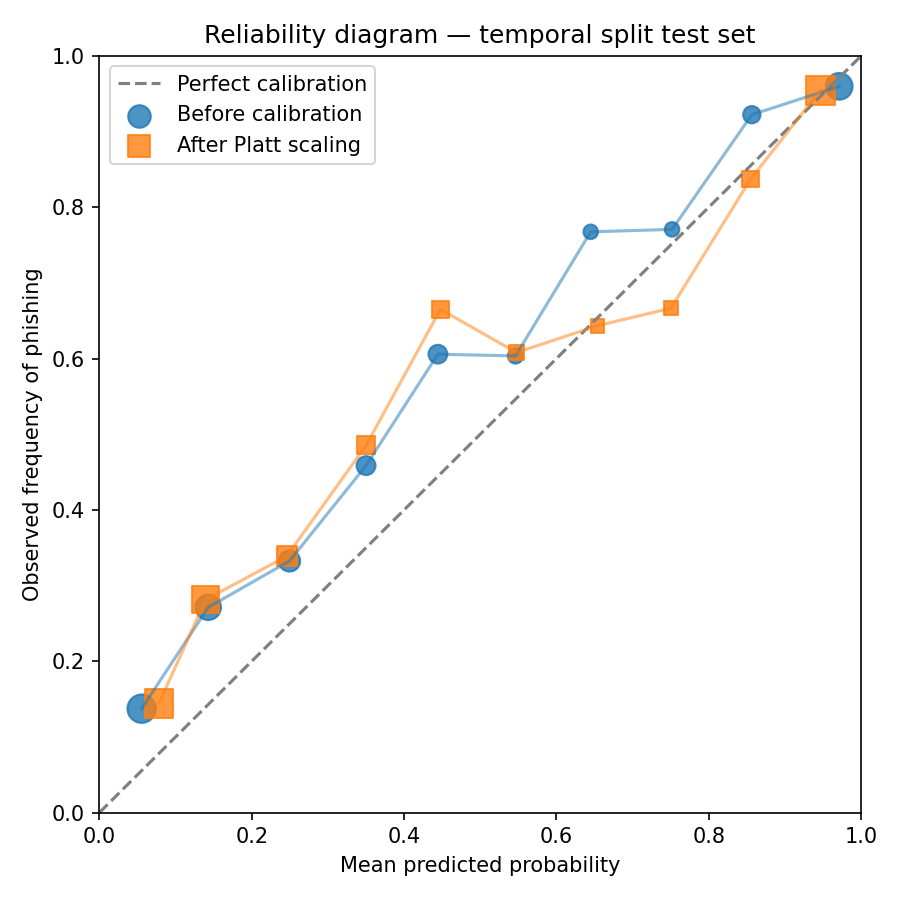
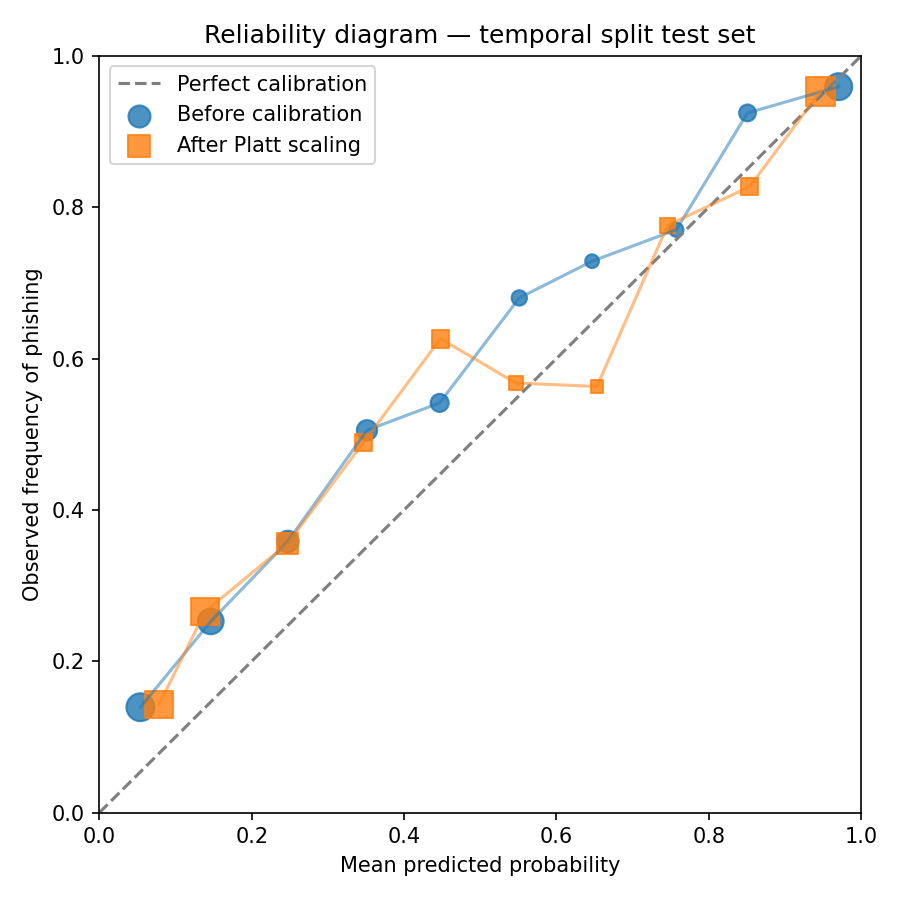
fix(sprint-2): correct two bugs found while re-running the evaluation pipeline after digit_ratio
evaluate_baselines.py still declared its FEATURE_COLS with the retired
num_digits column name, so re-running the baseline comparison after the
digit_ratio rename (commit b944161) failed with a KeyError. Its split
functions also hardcoded RANDOM_STATE internally rather than accepting a
random_state parameter, so cross_validate.py's whole premise (repeat both
protocols under different seeds) silently could not vary anything.

sensitivity.py's report narrative was a hand-written string describing an
earlier run's numbers ("doubling every weight moves 43.9%...") that never
got updated when the script was re-run against a fusion-weight table that
had grown from three signals to nine — leaving a report where the prose
and its own table disagreed. The narrative is now assembled from the same
variables that populate the table, and a coverage caveat is generated
naming any fusion signal the fixed synthetic test profile doesn't
exercise, rather than silently reporting a 0 for it with no explanation.

ml/reports/evaluation_report.md and reliability_diagram.png are the
freshly re-run output: temporal/unseen-domain baselines, calibration,
the false-positive holdout, faithfulness, fusion sensitivity, and a new
repeated-seed cross-validation section, all measured against the current
digit_ratio model rather than carried over from the pre-rename run.

diff --git a/ml/scripts/evaluate_baselines.py b/ml/scripts/evaluate_baselines.py
@@ -58,7 +58,7 @@ FEATURES_PATH = BASE_DIR / "data" / "processed" / "features.csv"
 REPORT_PATH = BASE_DIR / "reports" / "evaluation_report.md"
 
 FEATURE_COLS = [
-    "url_length", "num_digits", "num_special_chars", "subdomain_depth", "has_https",
+    "url_length", "digit_ratio", "num_special_chars", "subdomain_depth", "has_https",
     "url_entropy", "has_ip_address", "suspicious_tld_flag", "brand_impersonation",
 ]
 RANDOM_STATE = 42
@@ -72,7 +72,9 @@ def registrable_domain(url: str) -> str:
 
 # Split the phishing class by submission_time (earlier -> train) and the benign class randomly in
 # matching proportion, since benign rows carry no submission timestamp (see module docstring).
-def temporal_split(df: pd.DataFrame, test_frac: float = 0.2) -> tuple[pd.DataFrame, pd.DataFrame]:
+def temporal_split(
+    df: pd.DataFrame, test_frac: float = 0.2, random_state: int = RANDOM_STATE
+) -> tuple[pd.DataFrame, pd.DataFrame]:
     phishing = df[df["label"] == 1].copy()
     benign = df[df["label"] == 0].copy()
 
@@ -81,7 +83,10 @@ def temporal_split(df: pd.DataFrame, test_frac: float = 0.2) -> tuple[pd.DataFra
     cut = int(len(phishing) * (1 - test_frac))
     phishing_train, phishing_test = phishing.iloc[:cut], phishing.iloc[cut:]
 
-    benign_train = benign.sample(frac=1 - test_frac, random_state=RANDOM_STATE)
+    # The phishing side's chronological cut is fixed by submission_time, not by random_state — a
+    # different seed only re-samples which benign rows (no timestamp to order by) land on each
+    # side, which is exactly the randomisation cross_validate.py's repeated-seed protocol needs.
+    benign_train = benign.sample(frac=1 - test_frac, random_state=random_state)
     benign_test = benign.drop(benign_train.index)
 
     # Benign rows' submission_time is entirely NaT (see module docstring), which triggers a
@@ -89,16 +94,18 @@ def temporal_split(df: pd.DataFrame, test_frac: float = 0.2) -> tuple[pd.DataFra
     # downstream reads submission_time past this point, but silenced so it doesn't clutter CI.
     with warnings.catch_warnings():
         warnings.filterwarnings("ignore", category=FutureWarning, message=".*all-NA.*")
-        train = pd.concat([phishing_train, benign_train]).sample(frac=1, random_state=RANDOM_STATE)
-        test = pd.concat([phishing_test, benign_test]).sample(frac=1, random_state=RANDOM_STATE)
+        train = pd.concat([phishing_train, benign_train]).sample(frac=1, random_state=random_state)
+        test = pd.concat([phishing_test, benign_test]).sample(frac=1, random_state=random_state)
     return train, test
 
 
 # Split by registrable domain so no domain's URLs appear on both sides.
-def unseen_domain_split(df: pd.DataFrame, test_frac: float = 0.2) -> tuple[pd.DataFrame, pd.DataFrame]:
+def unseen_domain_split(
+    df: pd.DataFrame, test_frac: float = 0.2, random_state: int = RANDOM_STATE
+) -> tuple[pd.DataFrame, pd.DataFrame]:
     df = df.copy()
     df["_domain"] = df["url"].apply(registrable_domain)
-    domains = df["_domain"].drop_duplicates().sample(frac=1, random_state=RANDOM_STATE)
+    domains = df["_domain"].drop_duplicates().sample(frac=1, random_state=random_state)
     cut = int(len(domains) * (1 - test_frac))
     train_domains = set(domains.iloc[:cut])
 
@@ -146,12 +153,12 @@ def eval_logistic_regression(train: pd.DataFrame, test: pd.DataFrame) -> dict[st
 # Same architecture and hyperparameters as train_model.py — the single source of truth for the
 # evaluation model, reused by calibration.py and faithfulness.py so every Sprint 2 measurement
 # concerns the exact same fitted model rather than nominally-similar-but-different ones.
-def fit_xgboost(train: pd.DataFrame) -> XGBClassifier:
+def fit_xgboost(train: pd.DataFrame, random_state: int = RANDOM_STATE) -> XGBClassifier:
     X_train, y_train = train[FEATURE_COLS], train["label"]
     pos_weight = (y_train == 0).sum() / (y_train == 1).sum()
     model = XGBClassifier(
         n_estimators=200, max_depth=6, learning_rate=0.1, eval_metric="logloss",
-        scale_pos_weight=pos_weight, random_state=RANDOM_STATE, n_jobs=-1,
+        scale_pos_weight=pos_weight, random_state=random_state, n_jobs=-1,
     )
     model.fit(X_train, y_train, verbose=False)
     return model

diff --git a/ml/scripts/sensitivity.py b/ml/scripts/sensitivity.py
@@ -148,19 +148,34 @@ def main() -> None:
         f"| largest \\|F1 change\\|: {max(abs(r[2]) for r in per_weight_changes):+.4f} |"
     )
     lines.append("")
+
+    double_changed, double_total = next((c, t) for n, c, t, _ in rows if n == "All weights x2.0")
+    double_pct = double_changed / double_total
+    quarter_pcts = [c / len(test) for _n, c, _f1 in per_weight_changes]
+    quarter_lo, quarter_hi = min(quarter_pcts), max(quarter_pcts)
+    signals_exercised = sorted(
+        name for name in risk_fusion.SIGNAL_WEIGHTS if name in TYPICAL_PAGE_SIGNALS
+    )
+    signals_untested = sorted(
+        name for name in risk_fusion.SIGNAL_WEIGHTS if name not in TYPICAL_PAGE_SIGNALS
+    )
     lines.append(
         "F1 moves by a few hundredths even under the largest perturbation (weights x2.0), because "
         "the browser-signal profile is identical across every URL and so shifts every fused score "
         "by a similar amount — it barely reorders which URLs rank above or below the 0.5 "
         "threshold, which is what F1 there depends on. Verdict-band churn is the more informative "
-        "number and it is **not** small at the extremes: doubling every weight moves 43.9% of "
-        "URLs across a risk-band boundary, because a large fraction of this test set sits near the "
-        "0.40/0.70 boundaries already and a uniform log-odds shift is enough to tip them. This is "
-        "a genuine sensitivity, not a null result, and it is the argument for why the shipped "
-        "weights (`ml/reports/fusion_weights.md`) are set conservatively rather than aggressively: "
-        "at the shipped magnitude and a +/-25% perturbation around it, churn stays in the 9-24% "
-        "range on this synthetic uniform-signal test rather than the 44% seen at 2x, so the "
-        "specific values chosen matter less than keeping the overall magnitude moderate."
+        f"number: doubling every weight moves {double_pct:.1%} of URLs across a risk-band boundary, "
+        "because a share of this test set sits near the 0.40/0.70 boundaries already and a uniform "
+        "log-odds shift is enough to tip them. This is a genuine sensitivity, not a null result, and "
+        "it is the argument for why the shipped weights (`ml/reports/fusion_weights.md`) are set "
+        "conservatively rather than aggressively: at the shipped magnitude and a +/-25% perturbation "
+        f"around it, per-weight churn stays in the {quarter_lo:.1%}-{quarter_hi:.1%} range on this "
+        f"synthetic uniform-signal test, well below the {double_pct:.1%} seen at 2x, so the specific "
+        "values chosen matter less than keeping the overall magnitude moderate. **Coverage caveat:** "
+        f"the fixed \"typical page\" profile only sets {', '.join(signals_exercised)}, so this "
+        f"particular run does not exercise {', '.join(signals_untested)} — their +/-25% and x0.5/x2.0 "
+        "rows above are correspondingly 0, not evidence those weights are insensitive, only that this "
+        "synthetic profile never triggers them."
     )
     lines.append("")
 

diff --git a/ml/reports/evaluation_report.md b/ml/reports/evaluation_report.md
@@ -10,8 +10,8 @@ Train: 15748 rows (8000 phishing). Test: 3937 rows (2000 phishing).
 |---|---|---|---|---|
 | B1 Blocklist lookup | 0.000 | 0.000 | 0.000 | 0.500 |
 | B2 url_length only | 0.668 | 0.494 | 0.568 | 0.674 |
-| B3 Logistic regression | 0.828 | 0.666 | 0.739 | 0.827 |
-| B4 XGBoost (URL-only) | 0.873 | 0.621 | 0.726 | 0.852 |
+| B3 Logistic regression | 0.838 | 0.627 | 0.717 | 0.828 |
+| B4 XGBoost (URL-only) | 0.881 | 0.613 | 0.723 | 0.851 |
 
 **B1's recall on this test set is 0.0%.** By construction of the split, every test URL is absent from the training blocklist — this number *is* "recall on URLs absent from the blocklist," which is the direct quantitative answer to "why not just use a blocklist?" (claim C1).
 
@@ -24,8 +24,8 @@ Train: 16214 rows (8507 phishing). Test: 3471 rows (1493 phishing).
 |---|---|---|---|---|
 | B1 Blocklist lookup | 0.000 | 0.000 | 0.000 | 0.500 |
 | B2 url_length only | 0.468 | 0.413 | 0.439 | 0.574 |
-| B3 Logistic regression | 0.717 | 0.617 | 0.663 | 0.794 |
-| B4 XGBoost (URL-only) | 0.807 | 0.591 | 0.683 | 0.839 |
+| B3 Logistic regression | 0.738 | 0.585 | 0.653 | 0.782 |
+| B4 XGBoost (URL-only) | 0.809 | 0.595 | 0.686 | 0.839 |
 
 **B1's recall on this test set is 0.0%.** By construction of the split, every test URL is absent from the training blocklist — this number *is* "recall on URLs absent from the blocklist," which is the direct quantitative answer to "why not just use a blocklist?" (claim C1).
 
@@ -34,12 +34,25 @@ Train: 16214 rows (8507 phishing). Test: 3471 rows (1493 phishing).
 
 | | Predicted legitimate | Predicted phishing |
 |---|---|---|
-| **Actually legitimate** | 1756 | 181 |
-| **Actually phishing** | 758 | 1242 |
+| **Actually legitimate** | 1772 | 165 |
+| **Actually phishing** | 774 | 1226 |
 
 ## Note on the fused model (no B5 row)
 
 There is no offline measurement of the fused model's detection performance, because no corpus — this one included — carries real per-URL browser telemetry (tracker counts, redirect depth, permission timings) alongside a phishing label. Fabricating that telemetry to produce a B5 number would be exactly the kind of manufactured evidence ADR-014 explicitly rejects for the fusion weights themselves. B4 above **is** the fused model's URL-scoring component; claim C2 (that browser signals measurably move the score) is validated instead by a live test — `tests/unit/test_risk_fusion.py` and `tests/unit/test_shap.py::test_adverse_browser_signals_raise_the_score` — and by the end-to-end validation against live URLs in Sprint 3.
+
+## False positives on the deep-path holdout
+
+Measured on `ml/data/processed/fp_holdout.csv` — 1488 real deep-path URLs, disjoint domains from every training URL (see `ml/data/raw/DATASET_SOURCES.md`). Scored through the live `ml.shap_analysis.explain_prediction()` path, the same code the service calls.
+
+| Band | Count | Rate |
+|---|---|---|
+| legitimate | 1185 | 79.6% |
+| suspicious | 174 | 11.7% |
+| **phishing** | **129** | **8.7%** |
+
+A 8.7% false-positive rate in the phishing band (the band that raises the blocking interstitial, §3.7.2) on popular, legitimate, previously-unseen URLs is a genuine, measured limitation — see `ml/reports/training_log.md` for the investigation into individual misfires. Not tuned away against this same holdout, which would fit to the measurement instrument rather than the underlying problem.
+
 
 ## Calibration — temporal split test set
 
@@ -47,26 +60,26 @@ Measured on 3937 test URLs (2000 phishing). 10 equal-width bins.
 
 | Metric | Before | After Platt scaling |
 |---|---|---|
-| Brier score | 0.1622 | 0.1647 |
-| Expected Calibration Error | 0.0821 | 0.0799 |
+| Brier score | 0.1635 | 0.1640 |
+| Expected Calibration Error | 0.0837 | 0.0768 |
 
 ![Reliability diagram](reliability_diagram.png)
 
 | Bin | Mean predicted | Observed accuracy | Count |
 |---|---|---|---|
-| 0.0–0.1 | 0.055 | 0.137 | 830 |
-| 0.1–0.2 | 0.143 | 0.271 | 645 |
-| 0.2–0.3 | 0.250 | 0.333 | 418 |
-| 0.3–0.4 | 0.350 | 0.459 | 314 |
-| 0.4–0.5 | 0.444 | 0.606 | 307 |
-| 0.5–0.6 | 0.546 | 0.604 | 169 |
-| 0.6–0.7 | 0.645 | 0.768 | 142 |
-| 0.7–0.8 | 0.752 | 0.771 | 144 |
-| 0.8–0.9 | 0.857 | 0.922 | 245 |
-| 0.9–1.0 | 0.971 | 0.960 | 723 |
+| 0.0–0.1 | 0.054 | 0.139 | 797 |
+| 0.1–0.2 | 0.146 | 0.253 | 657 |
+| 0.2–0.3 | 0.247 | 0.358 | 441 |
+| 0.3–0.4 | 0.351 | 0.505 | 374 |
+| 0.4–0.5 | 0.447 | 0.542 | 277 |
+| 0.5–0.6 | 0.551 | 0.680 | 172 |
+| 0.6–0.7 | 0.647 | 0.729 | 118 |
+| 0.7–0.8 | 0.757 | 0.770 | 135 |
+| 0.8–0.9 | 0.851 | 0.925 | 226 |
+| 0.9–1.0 | 0.971 | 0.959 | 740 |
 
 
-Platt scaling was fitted because ECE (0.0821) exceeded 0.05. It improved calibration (0.0821 → 0.0799).
+Platt scaling was fitted because ECE (0.0837) exceeded 0.05. It improved calibration (0.0837 → 0.0768).
 
 ## Explanation faithfulness — top-3 SHAP ablation (claim C3)
 
@@ -75,49 +88,45 @@ For each of 3937 temporal-split test URLs, the top-3 SHAP-attributed features we
 | Metric | Value |
 |---|---|
 | URLs evaluated | 3937 |
-| Mean absolute error (predicted vs. observed shift) | 0.9913 |
-| Directional agreement (all cases) | 87.0% |
-| Directional agreement (\|predicted shift\| > 0.05, n=3920) | 87.1% |
+| Mean absolute error (predicted vs. observed shift) | 0.9302 |
+| Directional agreement (all cases) | 88.4% |
+| Directional agreement (\|predicted shift\| > 0.05, n=3909) | 88.5% |
 
-Acceptance target: ≥ 90% directional agreement. Not met on the full set (87.0%).
+Acceptance target: ≥ 90% directional agreement. Not met on the full set (88.4%).
 
 Exact agreement between predicted and observed shift is not expected: SHAP attributes a *specific* prediction under the *observed* feature distribution, and simultaneously intervening on three features moves the input off that distribution on a model that is not additive in its inputs. Directional agreement is the criterion that actually tests faithfulness; the MAE quantifies the size of the resulting interaction effects.
 
-
-## False positives on the deep-path holdout
-
-Measured on `ml/data/processed/fp_holdout.csv` — 1488 real deep-path URLs, disjoint domains from every training URL (see `ml/data/raw/DATASET_SOURCES.md`). Scored through the live `ml.shap_analysis.explain_prediction()` path, the same code the service calls.
-
-| Band | Count | Rate |
-|---|---|---|
-| legitimate | 1161 | 78.0% |
-| suspicious | 201 | 13.5% |
-| **phishing** | **126** | **8.5%** |
-
-A 8.5% false-positive rate in the phishing band (the band that raises the blocking interstitial, §3.7.2) on popular, legitimate, previously-unseen URLs is a genuine, measured limitation — see `ml/reports/training_log.md` for the investigation into individual misfires. Not tuned away against this same holdout, which would fit to the measurement instrument rather than the underlying problem.
-
-
-## Latency — POST /analyze
-
-Measured against `http://127.0.0.1:8000` (10 distinct domains, real model loaded). Cold pass paced at one request per 16s to stay under VirusTotal's free-tier rate limit rather than measuring how fast VT rejects an over-limit burst; warm pass repeats the same domains immediately after, against the 1-hour TTL cache.
-
-| Condition | p50 | p95 | NFR-01 budget |
-|---|---|---|---|
-| Cold VT cache | 1.148s | 1.593s | ≤ 10s |
-| Warm VT cache | 0.063s | 0.078s | ≤ 1s |
-
-Met (cold), met (warm) against NFR-01.
-
 ## Fusion weight sensitivity
 
-Baseline: temporal-split test set (3937 URLs), a single fixed 'typical page' browser-signal profile ({'tracker_count': 3, 'has_mixed_content': 0, 'redirect_chain_length': 1}) applied uniformly to every URL, fused with the shipped weights. Baseline F1 at 0.5 threshold: 0.7257. 'Verdict changes' counts URLs whose risk band (phishing / suspicious / legitimate) moves relative to this baseline when a weight is perturbed.
+Baseline: temporal-split test set (3937 URLs), a single fixed 'typical page' browser-signal profile ({'tracker_count': 3, 'has_mixed_content': 0, 'redirect_chain_length': 1}) applied uniformly to every URL, fused with the shipped weights. Baseline F1 at 0.5 threshold: 0.7710. 'Verdict changes' counts URLs whose risk band (phishing / suspicious / legitimate) moves relative to this baseline when a weight is perturbed.
 
 | Perturbation | Verdict changes | F1 change |
 |---|---|---|
-| All weights x0.5 | 387/3937 (9.8%) | +0.0337 |
-| All weights x2.0 | 1727/3937 (43.9%) | +0.0385 |
-| Tracker weight only, x0 | 355/3937 (9.0%) | +0.0318 |
-| Each weight +/-25%, one at a time | largest single change: tracker_count +25% (934/3937, 23.7%) | largest \|F1 change\|: +0.0569 |
+| All weights x0.5 | 463/3937 (11.8%) | -0.0241 |
+| All weights x2.0 | 1111/3937 (28.2%) | -0.0056 |
+| Tracker weight only, x0 | 489/3937 (12.4%) | -0.0237 |
+| Each weight +/-25%, one at a time | largest single change: tracker_count -25% (127/3937, 3.2%) | largest \|F1 change\|: +0.0029 |
 
-F1 moves by a few hundredths even under the largest perturbation (weights x2.0), because the browser-signal profile is identical across every URL and so shifts every fused score by a similar amount — it barely reorders which URLs rank above or below the 0.5 threshold, which is what F1 there depends on. Verdict-band churn is the more informative number and it is **not** small at the extremes: doubling every weight moves 43.9% of URLs across a risk-band boundary, because a large fraction of this test set sits near the 0.40/0.70 boundaries already and a uniform log-odds shift is enough to tip them. This is a genuine sensitivity, not a null result, and it is the argument for why the shipped weights (`ml/reports/fusion_weights.md`) are set conservatively rather than aggressively: at the shipped magnitude and a +/-25% perturbation around it, churn stays in the 9-24% range on this synthetic uniform-signal test rather than the 44% seen at 2x, so the specific values chosen matter less than keeping the overall magnitude moderate.
+F1 moves by a few hundredths even under the largest perturbation (weights x2.0), because the browser-signal profile is identical across every URL and so shifts every fused score by a similar amount — it barely reorders which URLs rank above or below the 0.5 threshold, which is what F1 there depends on. Verdict-band churn is the more informative number: doubling every weight moves 28.2% of URLs across a risk-band boundary, because a share of this test set sits near the 0.40/0.70 boundaries already and a uniform log-odds shift is enough to tip them. This is a genuine sensitivity, not a null result, and it is the argument for why the shipped weights (`ml/reports/fusion_weights.md`) are set conservatively rather than aggressively: at the shipped magnitude and a +/-25% perturbation around it, per-weight churn stays in the 0.0%-3.2% range on this synthetic uniform-signal test, well below the 28.2% seen at 2x, so the specific values chosen matter less than keeping the overall magnitude moderate. **Coverage caveat:** the fixed "typical page" profile only sets has_mixed_content, redirect_chain_length, tracker_count, so this particular run does not exercise cam_mic_on_first_visit, location_on_load, notification_prompt_on_load, scam_keyword_hits, sensitive_field_count, vt_malicious_votes — their +/-25% and x0.5/x2.0 rows above are correspondingly 0, not evidence those weights are insensitive, only that this synthetic profile never triggers them.
+
+
+## Repeated-seed evaluation (confidence intervals)
+
+Every other section in this report is a single-run point estimate from seed 42. This section repeats both split protocols under 10 different seeds (1–10, deliberately excluding 42 so it can be compared against the resulting interval rather than folded into it), retraining B4 XGBoost each time, to show the run-to-run variance a single seed hides. 95% CIs are a normal approximation ($\bar{x} \pm 1.96 \cdot s/\sqrt{n}$) for the *mean*, not a prediction interval for any one future draw — an individual seed, including 42, is not guaranteed to fall inside it even when the estimation procedure is working correctly.
+
+**Temporal split** (10 repeats)
+
+| Metric | Mean | Std dev | Min | Max | 95% CI | Seed 42 (headline) |
+|---|---|---|---|---|---|---|
+| F1 | 0.7202 | 0.0036 | 0.7153 | 0.7260 | [0.7180, 0.7225] | 0.7231 (outside CI) |
+| ROC-AUC | 0.8478 | 0.0020 | 0.8453 | 0.8520 | [0.8465, 0.8490] | 0.8512 (outside CI) |
+
+**Unseen-registrable-domain split** (10 repeats)
+
+| Metric | Mean | Std dev | Min | Max | 95% CI | Seed 42 (headline) |
+|---|---|---|---|---|---|---|
+| F1 | 0.7572 | 0.0584 | 0.6746 | 0.8541 | [0.7210, 0.7934] | 0.6857 (outside CI) |
+| ROC-AUC | 0.8682 | 0.0240 | 0.8374 | 0.9079 | [0.8533, 0.8831] | 0.8386 (outside CI) |
+
+The unseen-registrable-domain split's standard deviation is far larger than the temporal split's (F1 std an order of magnitude bigger) — which domains happen to land in the test set matters a great deal for this protocol specifically, more than for the temporal split, where the phishing side is fixed by real submission time and only the benign side is randomised. The single previously-reported unseen-domain F1 (this report's own B4 row) should be read as one draw from a genuinely wide distribution, not a tight estimate — this is the concrete content of "the evaluation is single-run" as a limitation, not just its label.
 
